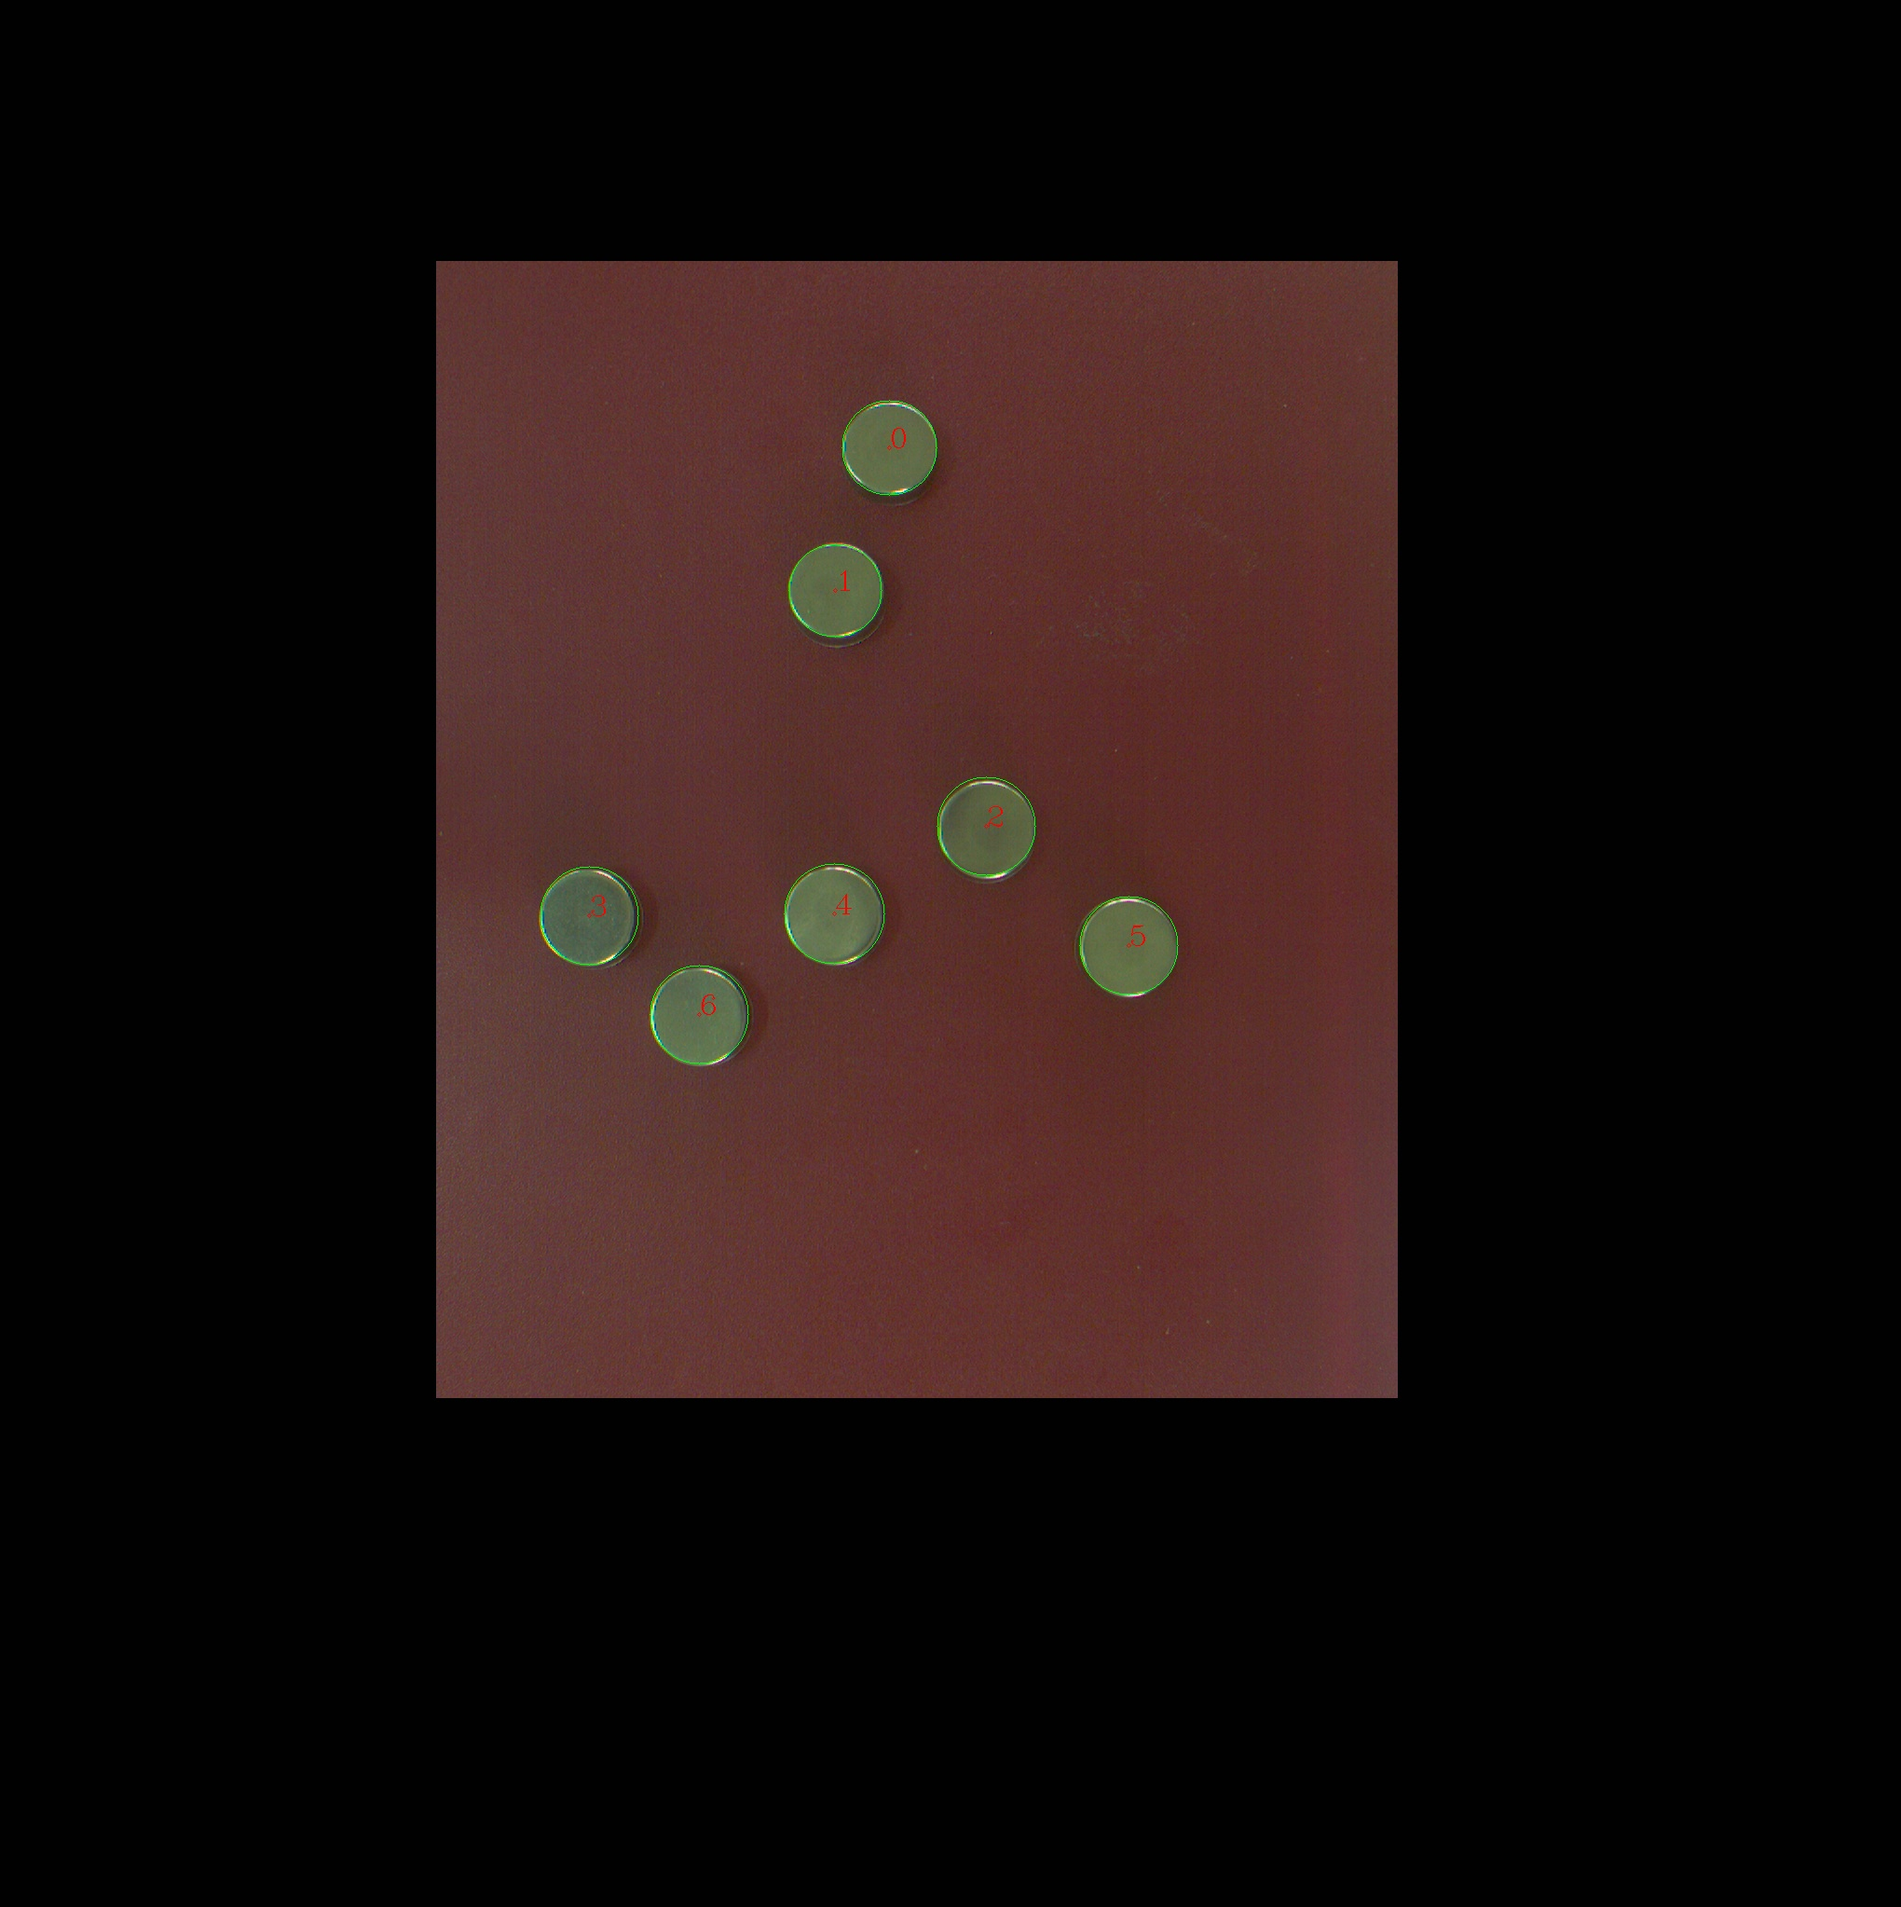
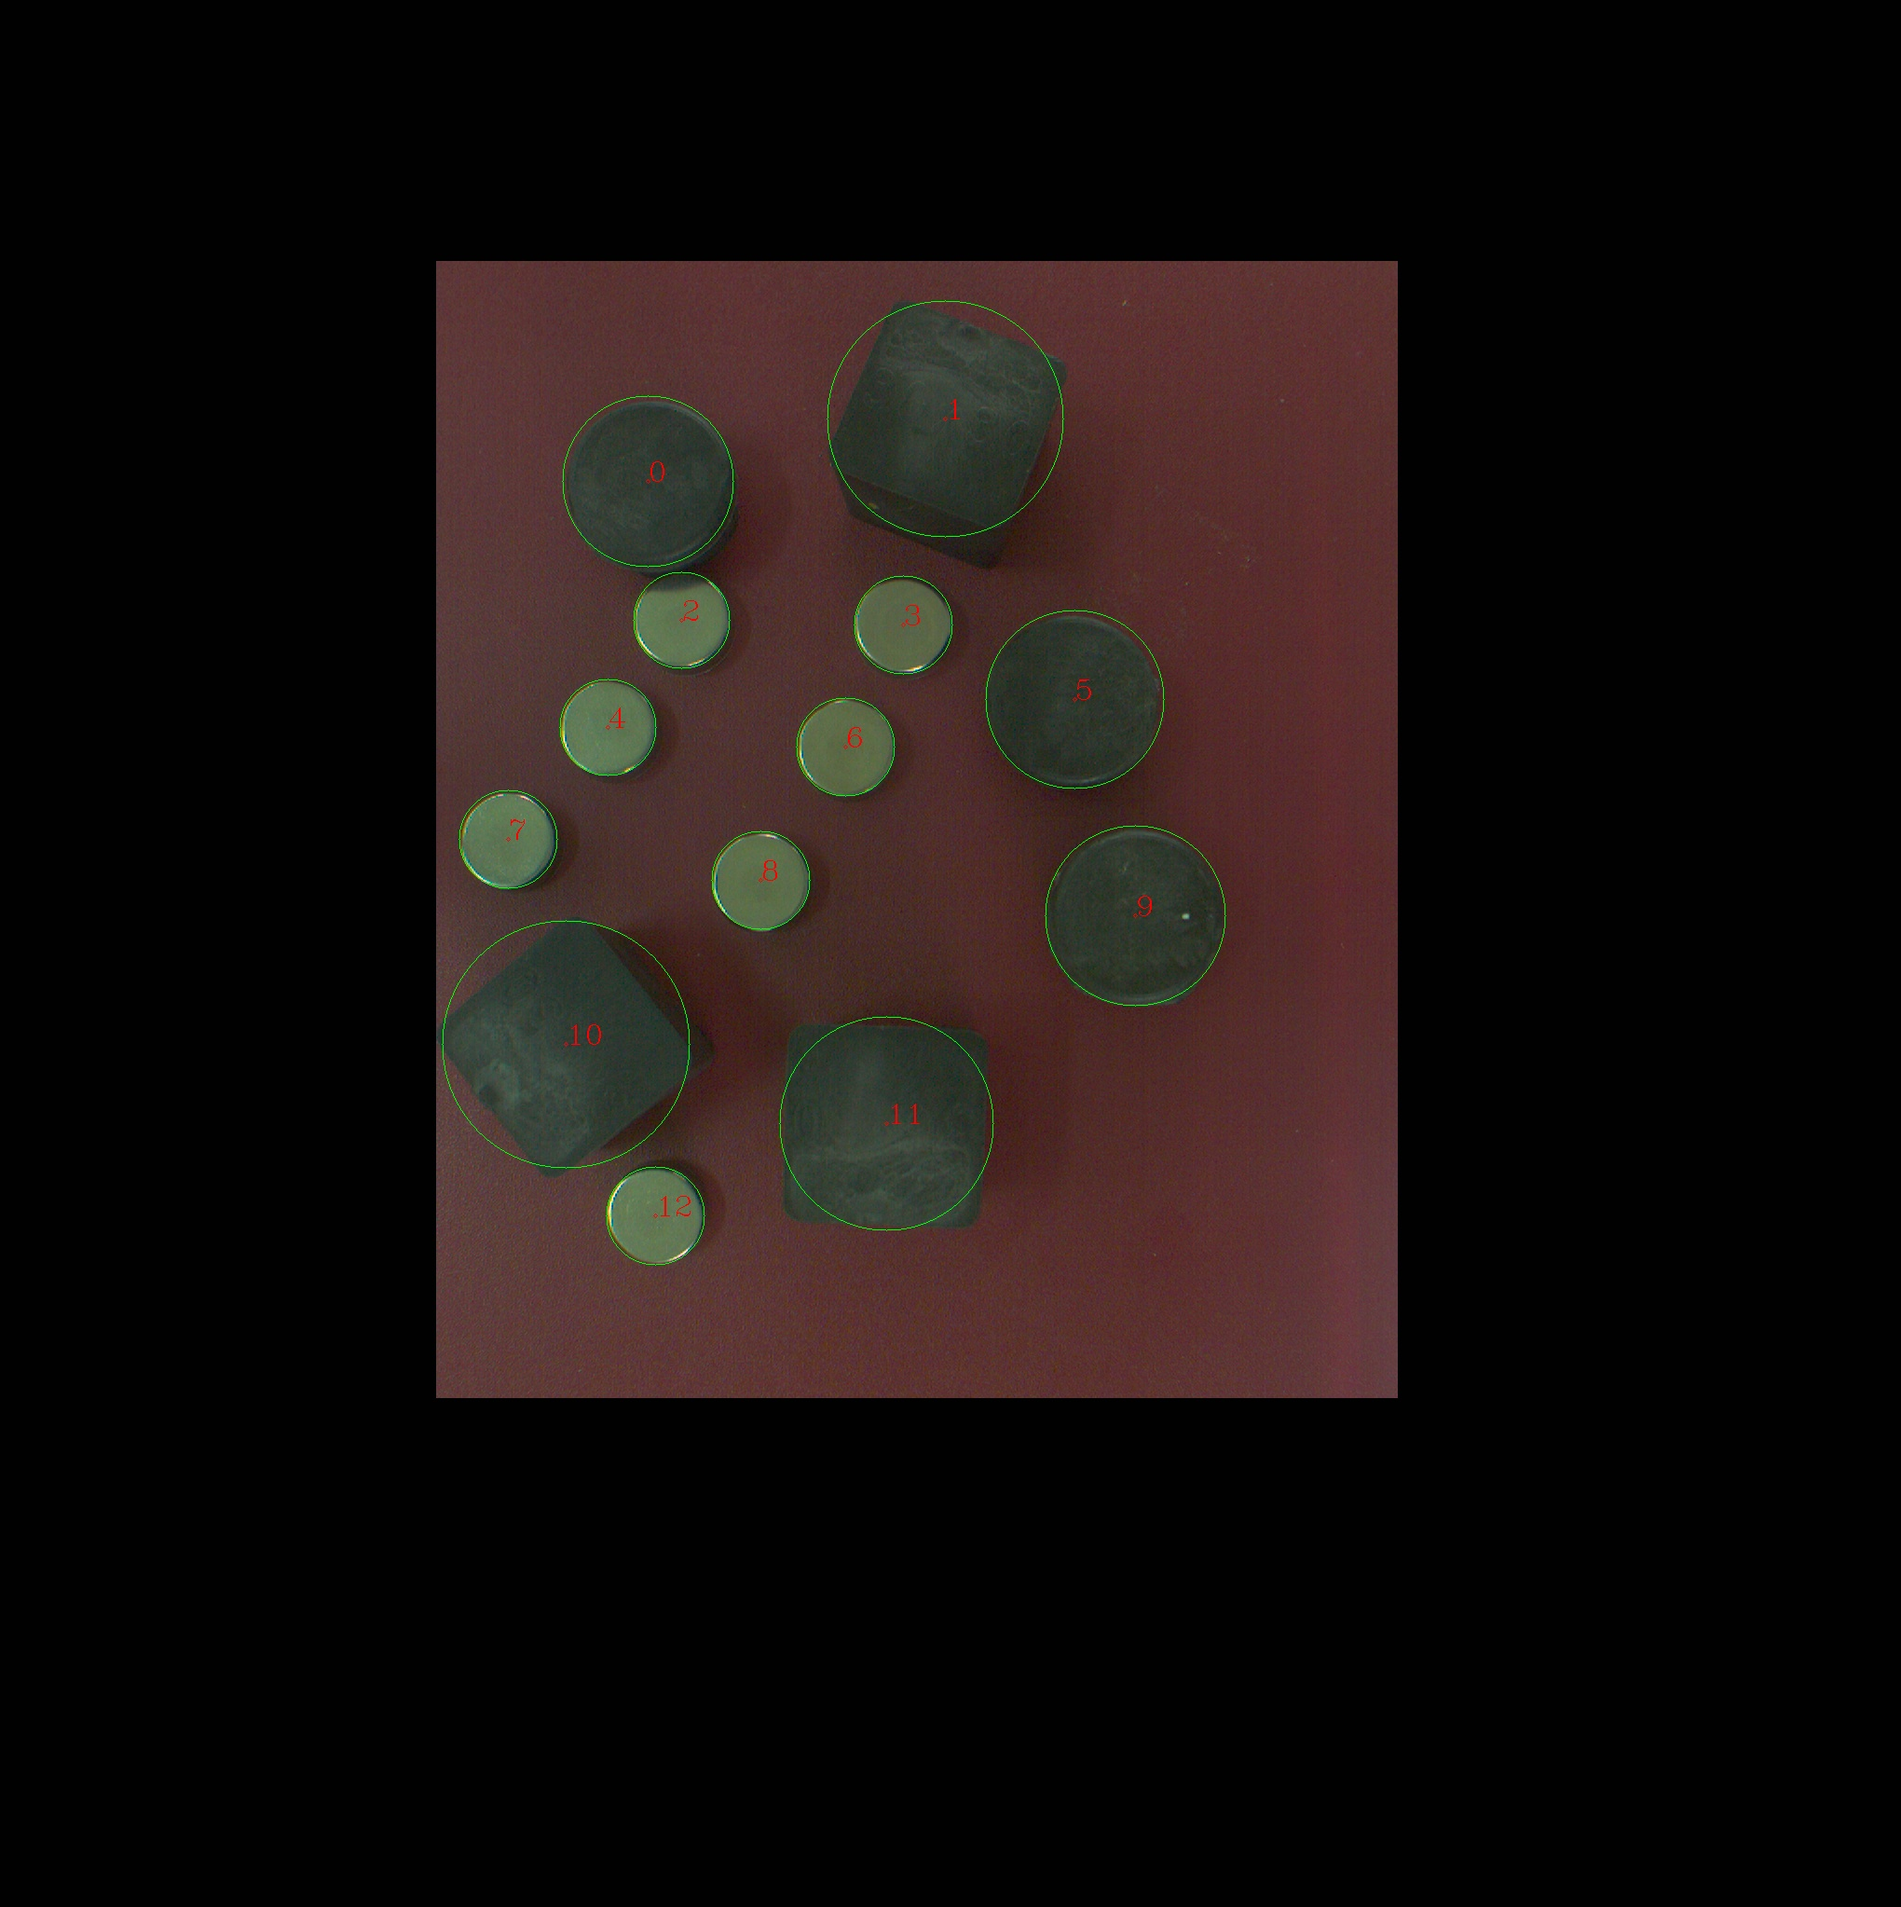
ud

Changed region(s): [[0.2162, 0.154, 0.6485, 0.6774]]

diff --git a/control_rb.py b/control_rb.py
@@ -22,25 +22,70 @@ class Control_robot():
             return True
         else: 
             return False
-    def grip(self,x,y):
-        for x_item,y_item in zip(x,y):
-            if x_item<310:
-                print("x_item, y_item",x_item,y_item)
-                # for y_item in y:
-                
-                # dType.SetPTPCoordinateParams(self.api,500,500,500,500,0)
-                # dType.SetPTPCommonParams(self.api, 500, 500, isQueued = 0)
-                dType.SetPTPCmd(self.api,  dType.PTPMode.PTPMOVJXYZMode, x_item,y_item,30,10, isQueued=1)
-                dType.SetWAITCmd(self.api, 500, isQueued=1)
-                dType.SetPTPCmd(self.api,  dType.PTPMode.PTPMOVJXYZMode, x_item,y_item,-25,10, isQueued=1)
-                # dType.SetWAITCmd(api, 200, isQueued=1)
-                dType.SetEndEffectorSuctionCup(self.api, True,  True, isQueued=1)
-                dType.SetWAITCmd(self.api, 500, isQueued=1)
-                dType.SetPTPCmd(self.api,  dType.PTPMode.PTPMOVJXYZMode, x_item,y_item,30,10, isQueued=1)
-                dType.SetPTPCmd(self.api,  dType.PTPMode.PTPMOVJXYZMode, 51,-247,30,10, isQueued=1)
-                # dType.SetWAITCmd(self.api, 500, isQueued=1)
-                dType.SetEndEffectorSuctionCup(self.api, True,  False, isQueued=1)
-                dType.SetWAITCmd(self.api, 500, isQueued=1)
+    def grip(self,coordinates_rb):
+        print(len(coordinates_rb))
+        for count, coordinate in enumerate(coordinates_rb):
+            if len(coordinate)!= 0 :
+                x = coordinate[0]
+                y = coordinate[1]
+                for x_item,y_item in zip(x,y):
+                    if x_item<310:
+                        if count == 0:
+                            print("count",count)
+                            print("x_item, y_item",x_item,y_item)
+                            # for y_item in y:
+                            
+                            # dType.SetPTPCoordinateParams(self.api,500,500,500,500,0)
+                            # dType.SetPTPCommonParams(self.api, 500, 500, isQueued = 0)
+                            dType.SetPTPCmd(self.api,  dType.PTPMode.PTPMOVJXYZMode, x_item,y_item,30,10, isQueued=1)
+                            dType.SetWAITCmd(self.api, 500, isQueued=1)
+                            dType.SetPTPCmd(self.api,  dType.PTPMode.PTPMOVJXYZMode, x_item,y_item,-25,10, isQueued=1)
+                            # dType.SetWAITCmd(api, 200, isQueued=1)
+                            dType.SetEndEffectorSuctionCup(self.api, True,  True, isQueued=1)
+                            dType.SetWAITCmd(self.api, 500, isQueued=1)
+                            dType.SetPTPCmd(self.api,  dType.PTPMode.PTPMOVJXYZMode, x_item,y_item,30,10, isQueued=1)
+                            dType.SetPTPCmd(self.api,  dType.PTPMode.PTPMOVJXYZMode, 51,-247,30,10, isQueued=1)
+                            # dType.SetWAITCmd(self.api, 500, isQueued=1)
+                            dType.SetEndEffectorSuctionCup(self.api, True,  False, isQueued=1)
+                            dType.SetWAITCmd(self.api, 500, isQueued=1)
+                        elif count ==1:
+                            print("count",count)
+
+                            print("x_item, y_item",x_item,y_item)
+                            # for y_item in y:
+                            
+                            # dType.SetPTPCoordinateParams(self.api,500,500,500,500,0)
+                            # dType.SetPTPCommonParams(self.api, 500, 500, isQueued = 0)
+                            dType.SetPTPCmd(self.api,  dType.PTPMode.PTPMOVJXYZMode, x_item,y_item,30,10, isQueued=1)
+                            dType.SetWAITCmd(self.api, 500, isQueued=1)
+                            dType.SetPTPCmd(self.api,  dType.PTPMode.PTPMOVJXYZMode, x_item,y_item,-15,10, isQueued=1)
+                            # dType.SetWAITCmd(api, 200, isQueued=1)
+                            dType.SetEndEffectorSuctionCup(self.api, True,  True, isQueued=1)
+                            dType.SetWAITCmd(self.api, 500, isQueued=1)
+                            dType.SetPTPCmd(self.api,  dType.PTPMode.PTPMOVJXYZMode, x_item,y_item,30,10, isQueued=1)
+                            dType.SetPTPCmd(self.api,  dType.PTPMode.PTPMOVJXYZMode, 51,-247,30,10, isQueued=1)
+                            # dType.SetWAITCmd(self.api, 500, isQueued=1)
+                            dType.SetEndEffectorSuctionCup(self.api, True,  False, isQueued=1)
+                            dType.SetWAITCmd(self.api, 500, isQueued=1)
+                        elif count ==2:
+                            print("count",count)
+
+                            print("x_item, y_item",x_item,y_item)
+                            # for y_item in y:
+                            
+                            # dType.SetPTPCoordinateParams(self.api,500,500,500,500,0)
+                            # dType.SetPTPCommonParams(self.api, 500, 500, isQueued = 0)
+                            dType.SetPTPCmd(self.api,  dType.PTPMode.PTPMOVJXYZMode, x_item,y_item,30,10, isQueued=1)
+                            dType.SetWAITCmd(self.api, 500, isQueued=1)
+                            dType.SetPTPCmd(self.api,  dType.PTPMode.PTPMOVJXYZMode, x_item,y_item,15,10, isQueued=1)
+                            # dType.SetWAITCmd(api, 200, isQueued=1)
+                            dType.SetEndEffectorSuctionCup(self.api, True,  True, isQueued=1)
+                            dType.SetWAITCmd(self.api, 500, isQueued=1)
+                            dType.SetPTPCmd(self.api,  dType.PTPMode.PTPMOVJXYZMode, x_item,y_item,30,10, isQueued=1)
+                            dType.SetPTPCmd(self.api,  dType.PTPMode.PTPMOVJXYZMode, 51,-247,30,10, isQueued=1)
+                            # dType.SetWAITCmd(self.api, 500, isQueued=1)
+                            dType.SetEndEffectorSuctionCup(self.api, True,  False, isQueued=1)
+                            dType.SetWAITCmd(self.api, 500, isQueued=1) 
     def home(self):
         dType.SetPTPCmd(self.api,  dType.PTPMode.PTPMOVJXYZMode, 0,-250,50,10, isQueued=1)
     def stop(self):

diff --git a/utils.py b/utils.py
@@ -8,6 +8,7 @@ import warnings
 import numpy as np
 from copy import deepcopy
 import json
+from detectron2.utils.visualizer import Visualizer
 warnings.filterwarnings("ignore")
 cfg = get_cfg()
 cfg.merge_from_file(r"output\config.yaml")
@@ -46,19 +47,39 @@ def find_line_circles(circles):
 def find_circles_in_small_img(img,w_s, w_en):
     logger.info("start predict")
     output = predictor_circles(img)
+    print(output)
     logger.info("end predict")
     boxes = output["instances"].to("cpu").pred_boxes if output["instances"].to("cpu").has("pred_boxes") else None
+    classes = output["instances"].pred_classes if output["instances"].has("pred_classes") else None
     if boxes is not None:
         boxes = convert_boxes(boxes)
-    circles= []
-    for box in boxes:
-        x0, y0, x1, y1 = box
-        center_X =  int((x1+x0)/2)
-        center_Y = int((y1+y0)/2)
-        r = int((x1-x0)/2)
-        if center_X-r > w_s and center_X+r < w_en: 
-            circles.append([center_X,center_Y,r])
-    return circles
+    circles1= []
+    circles2= []
+    circles3= []
+    for box,classs in zip(boxes,classes):
+        if classs == 1:
+            x0, y0, x1, y1 = box
+            center_X =  int((x1+x0)/2)
+            center_Y = int((y1+y0)/2)
+            r = int((x1-x0)/2)
+            if center_X-r > w_s and center_X+r < w_en: 
+                circles1.append([center_X,center_Y,r])
+        elif classs == 2:
+            x0, y0, x1, y1 = box
+            center_X =  int((x1+x0)/2)
+            center_Y = int((y1+y0)/2)
+            r = int((x1-x0)/2)
+            if center_X-r > w_s and center_X+r < w_en: 
+                circles2.append([center_X,center_Y,r])
+        elif classs == 3:
+            x0, y0, x1, y1 = box
+            center_X =  int((x1+x0)/2)
+            center_Y = int((y1+y0)/2)
+            r = int((x1-x0)/2)
+            if center_X-r > w_s and center_X+r < w_en: 
+                circles3.append([center_X,center_Y,r])
+
+    return [circles1,circles2,circles3]
 
 def convert_to_x_y_robot(x,y):
     model_x = torch.load(r"model\model_x.pth")
@@ -86,39 +107,31 @@ def convert_to_x_y_robot(x,y):
 
 def find_total_circles(img):
     h,w= img.shape[:2]
-    # img1 = np.ones_like(img)
-    # img2 = np.ones_like(img)
 
-    # img1[:,:int(5.2*w/10)] = img[:,:int(5.2*w/10)]
-    # img2[:,int(4.8*w/10):] = img[:,int(4.8*w/10):]
-    # circles1 = find_circles_in_small_img(img1, 0, int(5.2*w/10))
-    # circles2 = find_circles_in_small_img(img2,int(4.8*w/10),w )
-    # circles = circles1 + circles2
-    # new_circles = deepcopy(circles)
-    # for circle1 in  circles1:
-    #     for circle2 in circles2:
-    #         if ((circle2[0]-circle1[0])**2+(circle2[1]-circle1[1])**2)**(1/2) < 0.8*max(circle2[2],circle1[2]):
-    #             if circle2[2] < circle1[2]:
-    #                 new_circles.remove(circle2)
-    #             else:
-    #                 new_circles.remove(circle1)
-    circles = find_circles_in_small_img(img,0,w)
-    # circles = sorted(new_circles, key=lambda b: b[1])
-    circles = sorted(circles, key=lambda b: b[1])
-    group_lines = find_line_circles(circles)
-    new_circle = []
-    count = 0
-    for group_line in group_lines:
-        group_line = sorted(group_line, key=lambda b: b[0])
-        for circle in group_line:
-            # if count == 39 or count == 40:
-            cv2.circle(img, (circle[0], circle[1]), circle[2], (0, 255, 0), 1)
-            cv2.circle(img, (circle[0], circle[1]), 2, (0, 0, 255), 1)
-            cv2.putText(img, str(count), (circle[0], circle[1]), cv2.FONT_HERSHEY_COMPLEX, 1, (0, 0, 255), 1)
-            count +=1
-            new_circle.append(circle)
-    cv2.imwrite("tmp/result1.jpg",img)
+    total_circles = find_circles_in_small_img(img,0,w)
+    print(total_circles)
+    n_total_circles = []
+    classes = ["c1","c2","c3"]
+    for circles,classs in zip(total_circles,classes):
+        if len(circles) != 0:
+            circles = sorted(circles, key=lambda b: b[1])
+            group_lines = find_line_circles(circles)
+            new_circle = []
+            count = 0
+            for group_line in group_lines:
+                group_line = sorted(group_line, key=lambda b: b[0])
+                for circle in group_line:
+                    # if count == 39 or count == 40:
+                    cv2.circle(img, (circle[0], circle[1]), circle[2], (0, 255, 0), 1)
+                    cv2.circle(img, (circle[0], circle[1]), 2, (0, 0, 255), 1)
+                    cv2.putText(img, classs+str(count), (circle[0], circle[1]), cv2.FONT_HERSHEY_COMPLEX, 1, (0, 0, 255), 1)
+                    count +=1
+                    new_circle.append(circle)
+            n_total_circles.append(new_circle)
+        else:
+            n_total_circles.append(circles)
 
-    return new_circle,img
+
+    return n_total_circles,img
 
 

diff --git a/main.py b/main.py
@@ -69,22 +69,31 @@ class MainWindow:
         if self.start_robot:
             self.uic.bt_grid.setEnabled(False)
         if self.new_img_dt is not None:
-            circles, image = find_total_circles(self.new_img_dt)
+            total_circles, image = find_total_circles(self.new_img_dt)
             new_img_show = image[280:1500,468:1500]
-            image = cv2.resize(new_img_show,(531,341))
+            image = cv2.resize(new_img_show,(931,561))
             image = QImage(image,image.shape[1],image.shape[0],image.strides[0],QImage.Format_RGB888)
             self.uic.label_2.setPixmap(QtGui.QPixmap.fromImage(image))
+            len1 = 0
+            coordinates_rb = []
+            for circles in total_circles:
+                if len(circles)!=0:
+                    print(circles)
+                    len1+= len(circles)
+                    x = [circle[0] for circle in circles]
+                    y = [circle[1] for circle in circles]
+                    x_robot,y_robot = convert_to_x_y_robot(x,y)
+                    coordinates_rb.append([x_robot,y_robot])
+                else:
+                    coordinates_rb.append([])
 
-            self.uic.label_5.setText(str(len(circles)))
-            x = [circle[0] for circle in circles]
-            y = [circle[1] for circle in circles]
-            x_robot,y_robot = convert_to_x_y_robot(x,y)
+            self.uic.label_5.setText(str(len1))
             print(x_robot,y_robot)
 
             # bước 3: điều khiển robot theo các vị trí
             # self.control.start(x_robot,y_robot)
             # self.control.start()
-            self.control.grip(x_robot,y_robot)
+            self.control.grip(coordinates_rb)
             time.sleep(10)
             self.uic.bt_grid.setEnabled(True)
             print('a')
